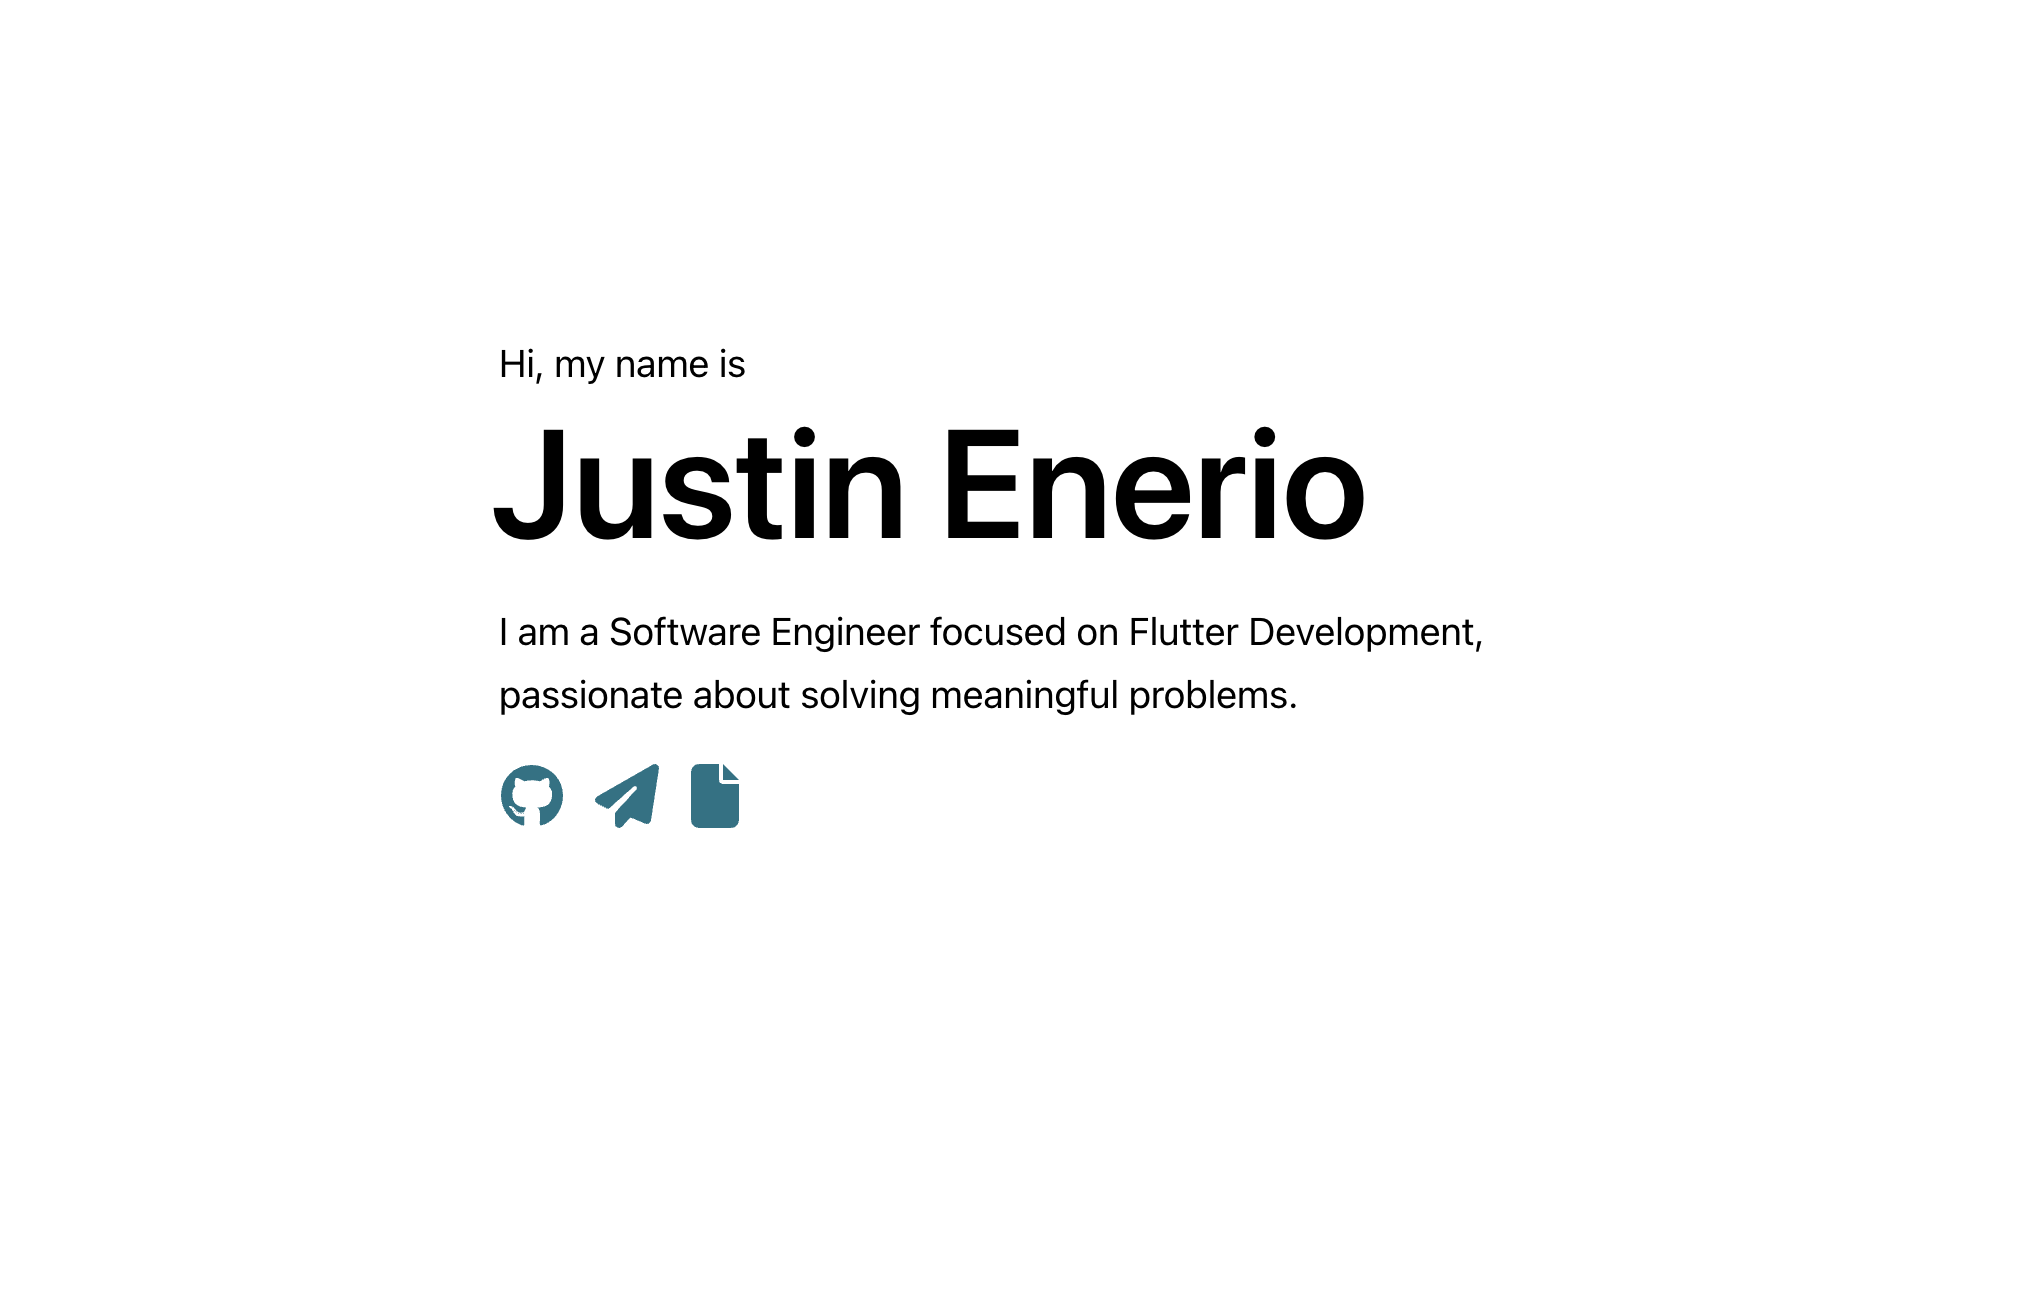
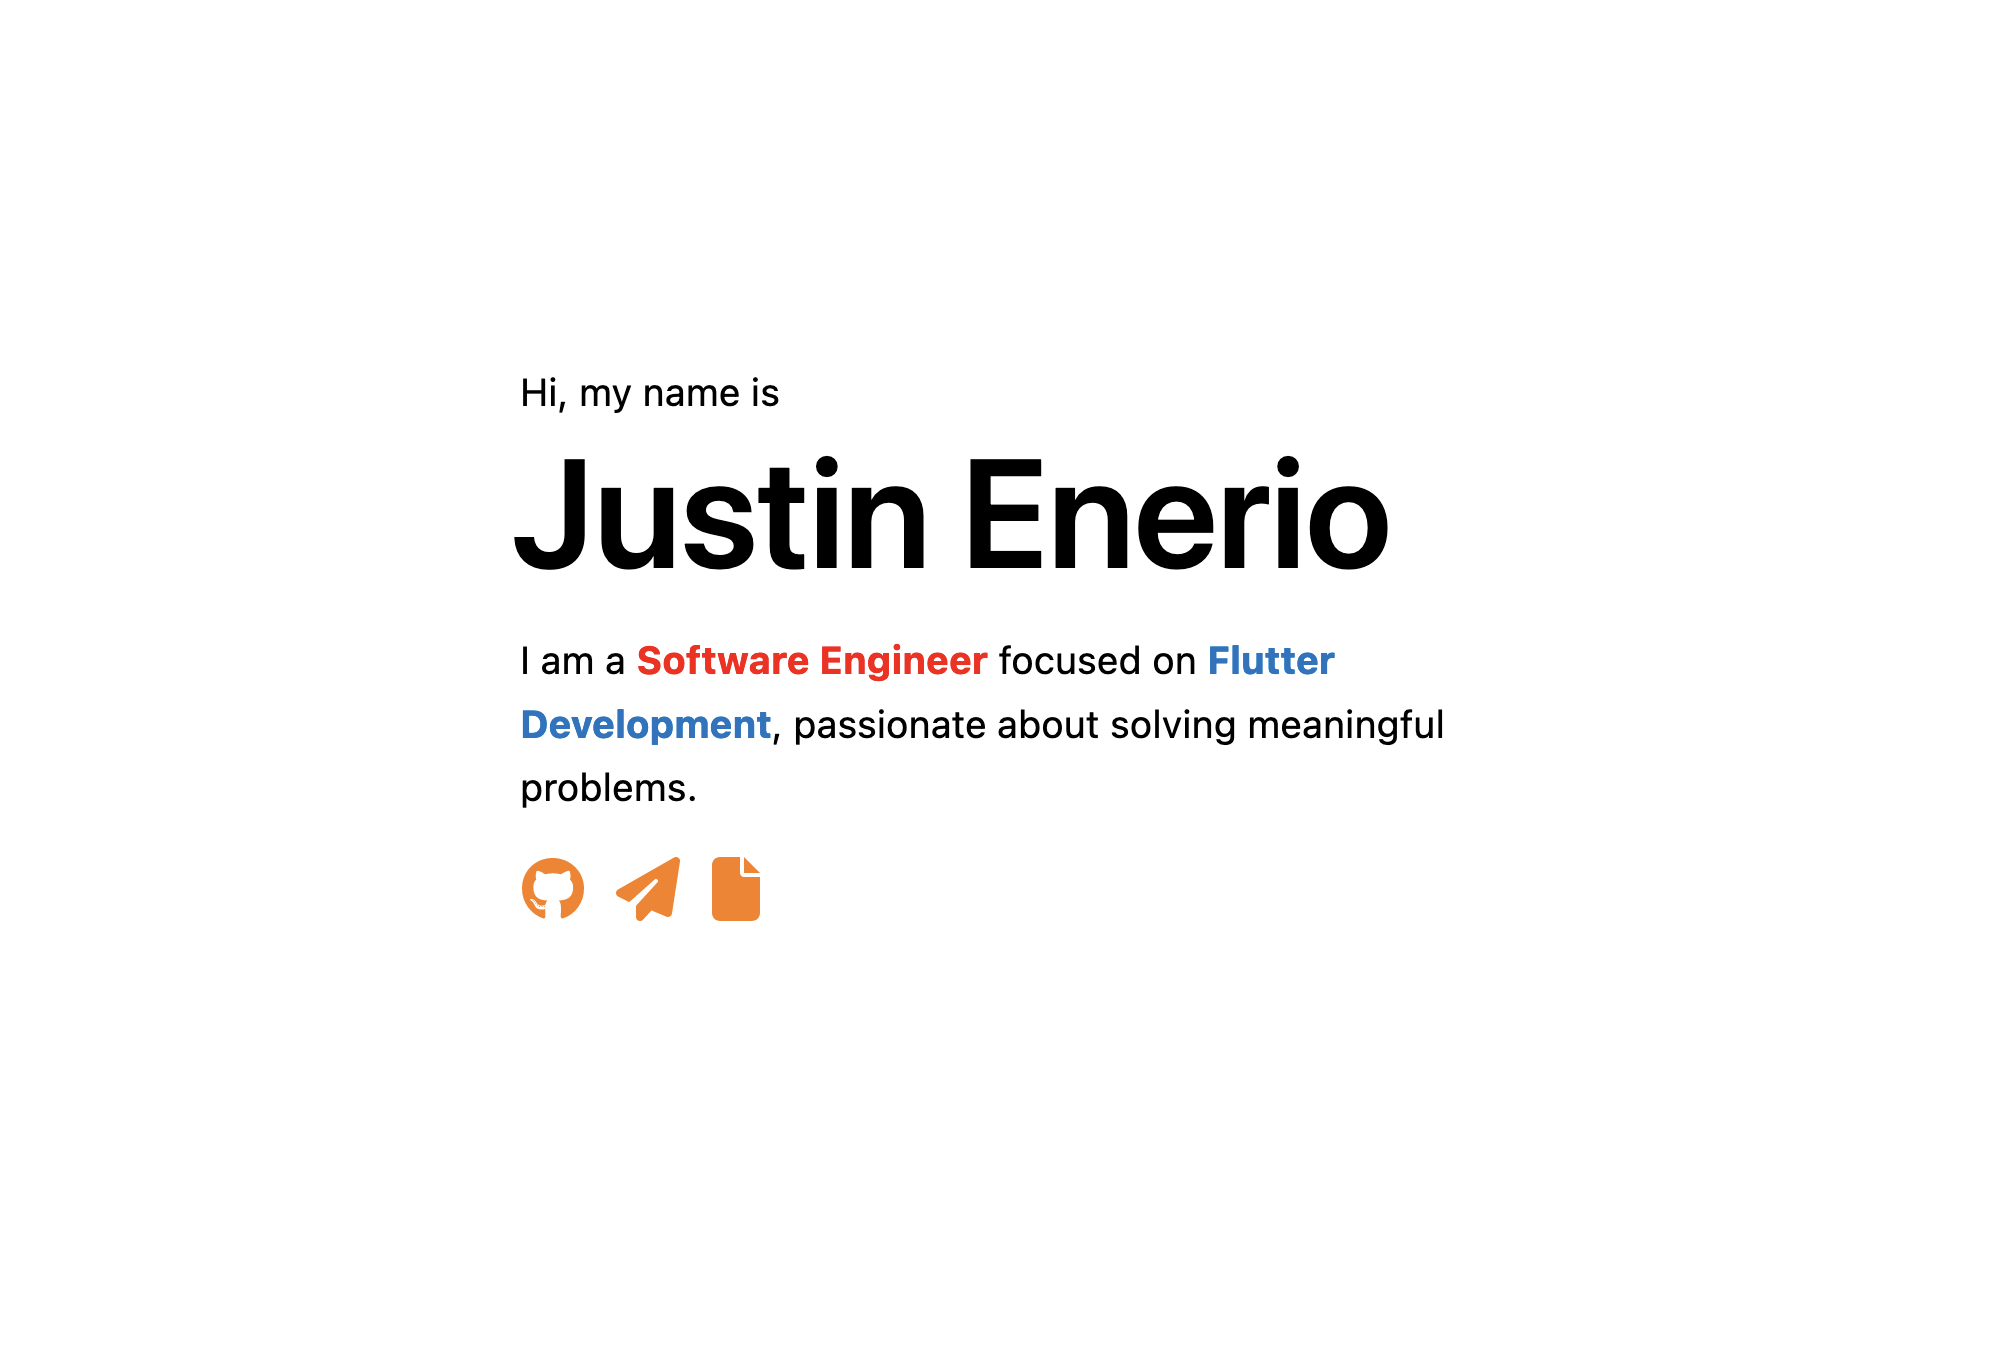
upd

Changed region(s): [[0.2465, 0.4594, 0.7396, 0.6738], [0.2465, 0.2757, 0.7087, 0.4288]]

diff --git a/docusaurus.config.js b/docusaurus.config.js
@@ -26,9 +26,6 @@ const config = {
       /** @type {import('@docusaurus/preset-classic').Options} */
       ({
         docs: false,
-        // docs: {
-        //   sidebarPath: require.resolve('./sidebars.js'),
-        // },
         blog: {
           showReadingTime: true,
         },
@@ -36,7 +33,7 @@ const config = {
           customCss: require.resolve('./src/css/custom.css'),
         },
         gtag: {
-          trackingID: 'GTM-PM5CPZC',
+          trackingID: 'G-V2KC8E90V1',
           anonymizeIP: true,
         },
       }),

diff --git a/src/pages/index.tsx b/src/pages/index.tsx
@@ -27,7 +27,7 @@ function Home() {
           style={{ minHeight: bannerHeight, display: isLoading ? "none" : "block" }}
         >
           <p>Hi, my name is</p>
-          <h1 className="text-success">Justin Enerio</h1>
+          <h1>Justin Enerio</h1>
           <p>
             I am a <span style={{ color: 'red', fontWeight: 'bold' }}>Software Engineer</span> focused 
             on <span style={{ color: '#0175C2', fontWeight: 'bold' }}>Flutter Development</span>, 

diff --git a/blog/2023-06-12-hello-world.md b/blog/2023-06-12-hello-world.md
@@ -4,7 +4,7 @@ title: Hello, World!
 authors:
     - key: justin
       title: Software Developer
-tags: [hola]
+tags: [hello]
 ---
 
 Lorem ipsum dolor sit amet, consectetur adipiscing elit. Pellentesque elementum dignissim ultricies. Fusce rhoncus ipsum tempor eros aliquam consequat. Lorem ipsum dolor sit amet
